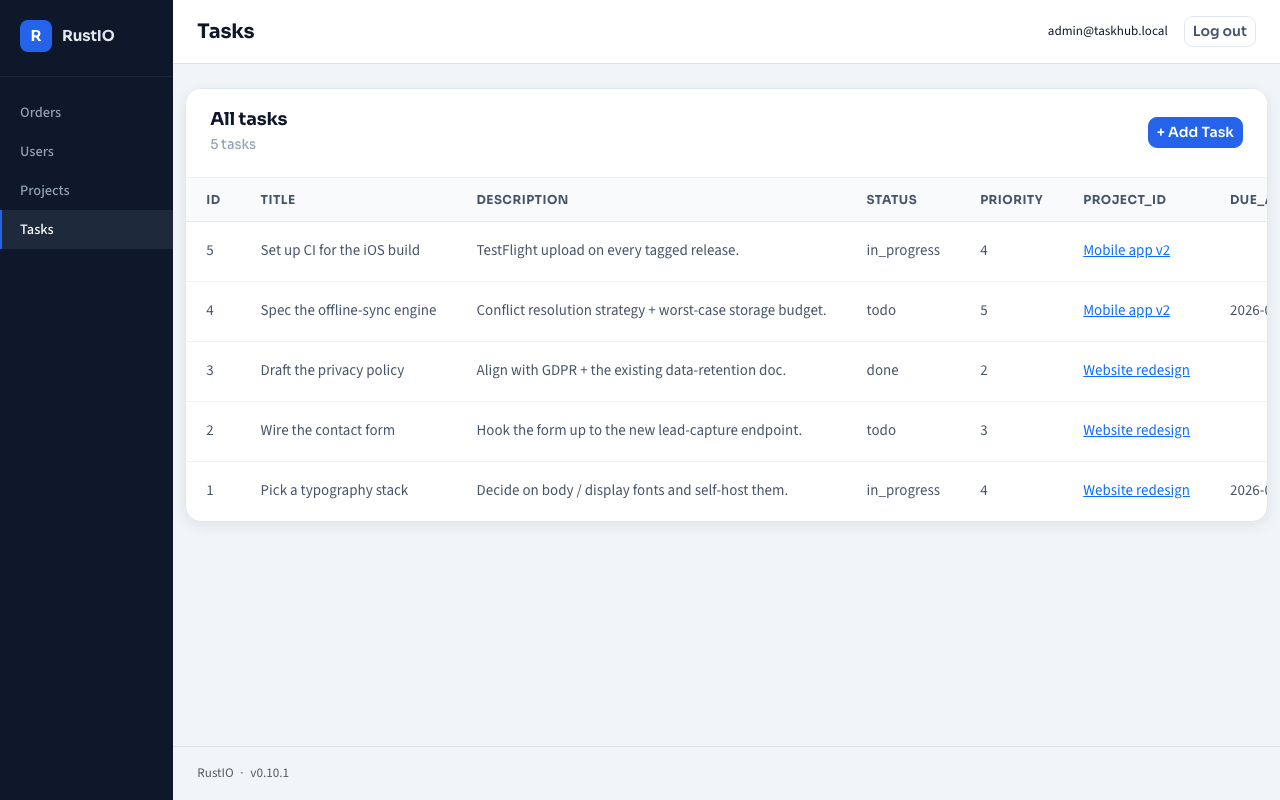
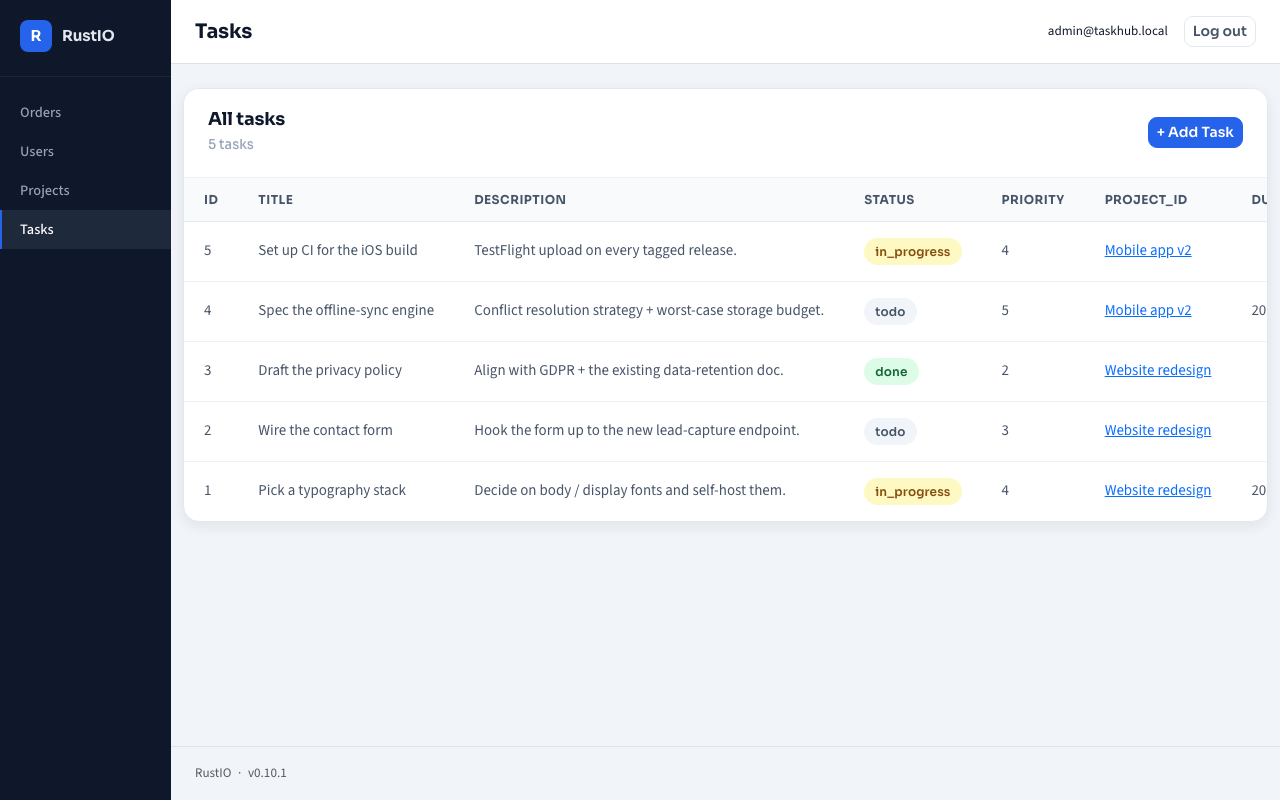
feat(admin): wire status-pill rendering into the list page
When a list-page column matches a status-shaped name (`status`,
`state`, `is_*`, `has_*`, `*_status`, `*_state`, `active`,
`published`), the cell renderer now wraps the value in a pill:

  <span class="badge-status" data-status="<normalised>">label</span>

The admin.css from the visual-refresh commit picks up the colour
from the `[data-status="..."]` attribute selector.

  Tasks.status         "in_progress" → amber pill
                       "done"        → green pill
                       "todo"        → slate pill
  Projects.is_active   "1"           → green "Active" pill
                       "0"           → slate "Inactive" pill

Two helpers (both unit-tested in admin::layout::tests):

  is_status_field_name(&str)
      Name-based opt-in. Matches exact `status`/`state`/`active`/
      `published`, suffix `_status`/`_state`, prefix `is_`/`has_`.
      Substring matches (`statustown`, `estatus_id`) do not.

  normalize_status_pill(&str) -> (data_value, label)
      Normalises SQLite boolean encoding ("0"/"1") and ASCII
      variants ("true"/"false"/"yes"/"no"/"on"/"off") to
      "active"/"inactive" — those colour-match in admin.css and
      give human-readable "Active"/"Inactive" labels in the UI.
      String statuses pass through with the original label and
      lowercased data-status so `[data-status="done"]` etc. fire
      reliably.

Tests: +4 in admin::layout::tests (matcher accept-list,
matcher reject-list, normaliser boolean cases, normaliser
[…]

diff --git a/rustio-core/src/admin/layout.rs b/rustio-core/src/admin/layout.rs
@@ -1200,6 +1200,8 @@ pub async fn list_render(
                 .map(|(col_idx, col)| {
                     let raw = row.get(&col.name).cloned().unwrap_or_default();
                     if let Some(fk) = fk_lookups.iter().find(|f| f.column_index == col_idx) {
+                        // FK column: render as a clickable link to the
+                        // target row (or `#<id>` if the target is gone).
                         if raw.is_empty() {
                             return String::new();
                         }
@@ -1212,6 +1214,26 @@ pub async fn list_render(
                             ),
                             None => format!("#{}", html_escape(&raw)),
                         }
+                    } else if is_status_field_name(&col.name) {
+                        // Status-shaped column: wrap in a pill badge that
+                        // admin.css colours via `[data-status="<value>"]`.
+                        // SQLite boolean columns return "0"/"1"; we
+                        // normalise to "Active"/"Inactive" so the label
+                        // reads cleanly AND admin.css can colour the
+                        // pill via `[data-status="active|inactive"]`.
+                        // String statuses (todo / in_progress / done /
+                        // pending …) pass through with the raw value
+                        // lowercased for the data-status attribute.
+                        // Empty values render as empty cells, not pills.
+                        if raw.is_empty() {
+                            return String::new();
+                        }
+                        let (data_value, label) = normalize_status_pill(&raw);
+                        format!(
+                            r#"<span class="badge-status" data-status="{value}">{label}</span>"#,
+                            value = html_escape(&data_value),
+                            label = html_escape(&label),
+                        )
                     } else {
                         html_escape(&raw)
                     }
@@ -1742,6 +1764,50 @@ pub async fn password_change_done_render(
     }
 }
 
+/// Heuristic for "does this column look like a status?" — used by
+/// the list-page cell renderer to opt into the `badge-status` pill
+/// styling via a `data-status=<value>` attribute. Name-based only;
+/// the type check is implicit (`bool`s typically carry `is_` /
+/// `has_` prefixes already).
+///
+/// Examples that match: `status`, `state`, `task_status`,
+/// `is_active`, `is_published`, `has_paid`, `published`, `active`.
+/// Examples that don't: `title`, `description`, `priority`,
+/// `created_at`, `project_id`.
+fn is_status_field_name(name: &str) -> bool {
+    let n = name.to_lowercase();
+    n == "status"
+        || n == "state"
+        || n == "active"
+        || n == "published"
+        || n.ends_with("_status")
+        || n.ends_with("_state")
+        || n.starts_with("is_")
+        || n.starts_with("has_")
+}
+
+/// Normalise a raw cell value for status-pill rendering.
+///
+/// Returns `(data_status_value, display_label)`:
+/// - `data_status_value` is what goes into the `data-status` attribute;
+///   admin.css uses it to pick the pill colour
+///   (`active`/`pending`/`inactive`/`info`).
+/// - `display_label` is the human-readable text shown inside the pill.
+///
+/// SQLite booleans round-trip as `"0"` / `"1"` strings through the
+/// persistence layer; we map those to the more readable `Active` /
+/// `Inactive` here. String statuses (`todo` / `in_progress` / `done`)
+/// pass through with the original casing for the label and lowercased
+/// for `data-status` so CSS matchers fire on `[data-status="done"]`.
+fn normalize_status_pill(raw: &str) -> (String, String) {
+    let lc = raw.trim().to_lowercase();
+    match lc.as_str() {
+        "1" | "true" | "yes" | "on" => ("active".to_string(), "Active".to_string()),
+        "0" | "false" | "no" | "off" => ("inactive".to_string(), "Inactive".to_string()),
+        _ => (lc, raw.to_string()),
+    }
+}
+
 fn dashboard_fallback(entries: &[DashboardEntry]) -> String {
     let mut out = String::from(
         "<!doctype html><html><head><meta charset=\"utf-8\"><title>Dashboard</title></head><body style=\"font-family:system-ui\"><h1>Dashboard</h1><ul>",
@@ -1887,5 +1953,93 @@ mod tests {
 
         assert_eq!(got.len(), 1);
         assert_eq!(got[0].count, 0);
+    }
+
+    #[test]
+    fn status_field_name_matches_known_patterns() {
+        // Bare names
+        assert!(is_status_field_name("status"));
+        assert!(is_status_field_name("state"));
+        assert!(is_status_field_name("active"));
+        assert!(is_status_field_name("published"));
+        // Case-insensitive
+        assert!(is_status_field_name("Status"));
+        assert!(is_status_field_name("STATE"));
+        // Suffix patterns
+        assert!(is_status_field_name("task_status"));
+        assert!(is_status_field_name("order_state"));
+        // Prefix patterns (booleans typically)
+        assert!(is_status_field_name("is_active"));
+        assert!(is_status_field_name("is_published"));
+        assert!(is_status_field_name("has_paid"));
+    }
+
+    #[test]
+    fn status_field_name_rejects_non_status_columns() {
+        // Title-like text columns
+        assert!(!is_status_field_name("title"));
+        assert!(!is_status_field_name("description"));
+        assert!(!is_status_field_name("name"));
+        // Numerics
+        assert!(!is_status_field_name("priority"));
+        assert!(!is_status_field_name("count"));
+        // Timestamps
+        assert!(!is_status_field_name("created_at"));
+        assert!(!is_status_field_name("due_at"));
+        // FK columns
+        assert!(!is_status_field_name("project_id"));
+        assert!(!is_status_field_name("user_id"));
+        // Edge case: substring "status" inside a word should NOT match
+        assert!(!is_status_field_name("statustown"));
+        assert!(!is_status_field_name("estatus_id"));
+    }
+
+    #[test]
+    fn normalize_status_pill_maps_boolean_encodings() {
+        // Truthy → active + "Active" label
+        for raw in ["1", "true", "TRUE", " True ", "yes", "on"] {
+            let (data, label) = normalize_status_pill(raw);
+            assert_eq!(
+                data, "active",
+                "truthy raw {raw:?} should map to data=active"
+            );
+            assert_eq!(label, "Active", "truthy raw {raw:?} should label as Active");
+        }
+        // Falsy → inactive + "Inactive" label
+        for raw in ["0", "false", "FALSE", "no", "off"] {
+            let (data, label) = normalize_status_pill(raw);
+            assert_eq!(
+                data, "inactive",
+                "falsy raw {raw:?} should map to data=inactive"
+            );
+            assert_eq!(
+                label, "Inactive",
+                "falsy raw {raw:?} should label as Inactive"
+            );
+        }
+    }
+
+    #[test]
+    fn normalize_status_pill_passes_through_string_statuses() {
+        // String statuses keep their original casing in the label but
+        // lowercase in the data-status attribute (so admin.css matchers
+        // like `[data-status="done"]` fire reliably).
+        let (data, label) = normalize_status_pill("In_Progress");
+        assert_eq!(data, "in_progress");
+        assert_eq!(label, "In_Progress");
+
+        let (data, label) = normalize_status_pill("DONE");
+        assert_eq!(data, "done");
+        assert_eq!(label, "DONE");
+
+        let (data, label) = normalize_status_pill("todo");
+        assert_eq!(data, "todo");
+        assert_eq!(label, "todo");
+
+        // Unknown value: passes through. The base `[data-status]` rule
+        // still applies the pill shape; only the colour is missing.
+        let (data, label) = normalize_status_pill("custom");
+        assert_eq!(data, "custom");
+        assert_eq!(label, "custom");
     }
 }
